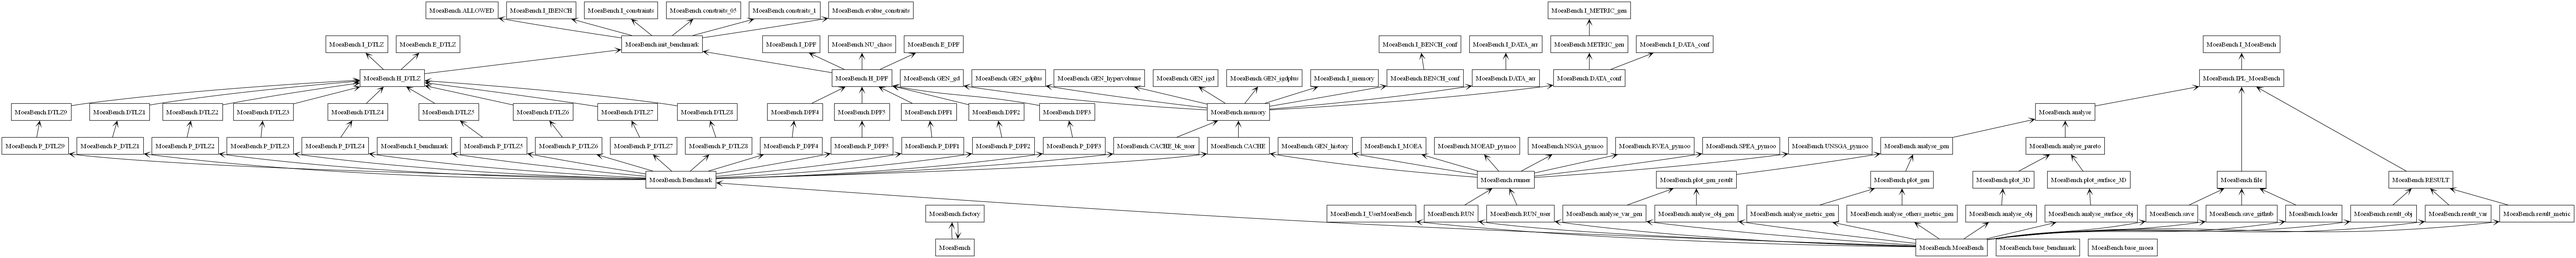
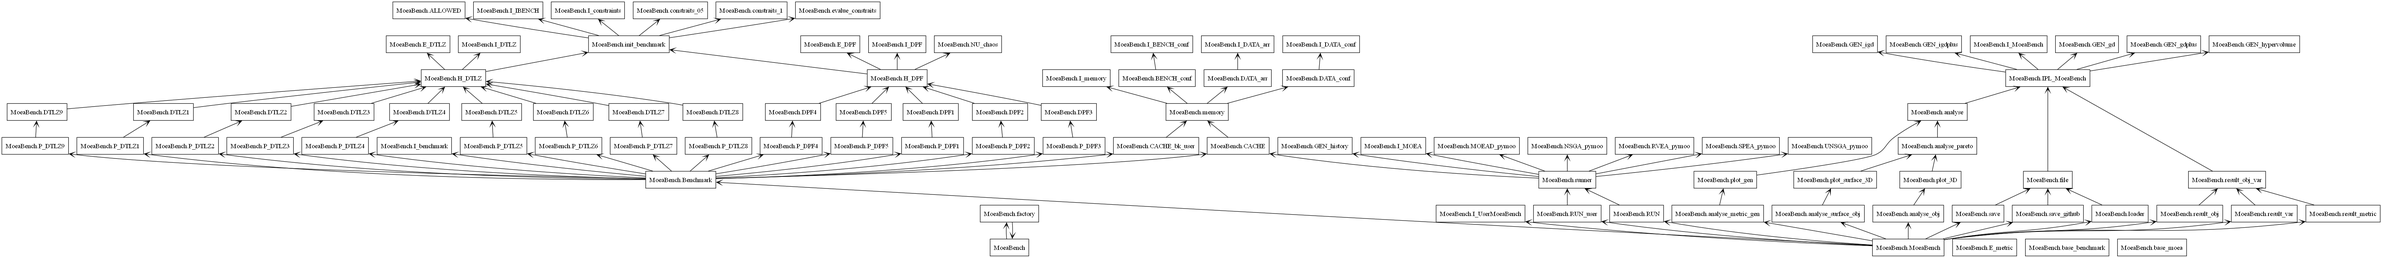
sdf

diff --git a/MoeaBench/result_metric.py b/MoeaBench/result_metric.py
@@ -1,8 +1,30 @@
-from .RESULT import RESULT
+from .result_obj_var import result_obj_var
 import numpy as np
 
 
-class result_metric(RESULT):
+class result_metric(result_obj_var):
+
+    def DATA(self,result,generation, objective):
+        gen_f_test = [b[0].get_F_GEN() for b in result.get_elements()]
+        gen_f_max = max([len(gen)  for gen in gen_f_test])
+        generations = [0,gen_f_max] if isinstance(generation, (list)) and len(generation) == 0 else generation
+        result_metric.allowed_gen(generations)
+        result_metric.allowed_gen_max(gen_f_max,generations[1])
+        objectives = [1,2,3] if isinstance(objective, (list)) and  len(objective) == 0 else objective  
+        result_metric.allowed_obj(objectives)
+             
+        gen_f_valid = [b[0].get_F_GEN()[generations[0]:generations[1]] for b in result.get_elements()]
+        slicing = [[i-1,i]  for i in objectives]
+        F_gen = []
+        for i in range(len(gen_f_valid)):
+            vet_aux = []
+            for z in range(len(gen_f_valid[i])):
+                vet_aux.append(result_metric.slicing_arr(slicing,gen_f_valid[i][z]))
+            F_gen.append(vet_aux)           
+        F = [b[0].get_arr_DATA() for b in result.get_elements()]
+        F_slice = [np.hstack( [b[:,i:j]  for i,j in slicing]) for b in F ]        
+        return F_gen,F_slice 
+    
 
     def IPL_hypervolume(self, result, generation, objective):
         F_GEN, F =  self.DATA(result,generation, objective)

diff --git a/MoeaBench/result_obj_var.py b/MoeaBench/result_obj_var.py
@@ -1,7 +1,7 @@
-from .RESULT import RESULT
-import numpy as np
+from .IPL_MoeaBench import IPL_MoeaBench 
 
-class result_obj_var(RESULT):
+
+class result_obj_var(IPL_MoeaBench ):
 
     def F(self,result, generations = None):
         return [b[0].get_F_GEN() for b in result.get_elements()] if generations is None else [b[0].get_F_GEN()[generations[0]:generations[1]] for b in result.get_elements()]
@@ -19,14 +19,14 @@ class result_obj_var(RESULT):
         gen_f_test = self.dict_data()[default](result)
         gen_f_max = max([len(gen)  for gen in gen_f_test])
         generations = [0,gen_f_max] if isinstance(generation, (list)) and len(generation) == 0 else generation
-        RESULT.allowed_gen(generations)
-        RESULT.allowed_gen_max(gen_f_max,generations[1])        
+        result_obj_var.allowed_gen(generations)
+        result_obj_var.allowed_gen_max(gen_f_max,generations[1])        
         gen_f_valid = self.dict_data()[default](result,generations)
         slicing = [[objective-1,objective]]
         F_gen = []
         for i in range(len(gen_f_valid)):
             vet_aux = []
             for z in range(len(gen_f_valid[i])):
-                vet_aux.append(RESULT.slicing_arr(slicing,gen_f_valid[i][z]))
+                vet_aux.append(result_obj_var.slicing_arr(slicing,gen_f_valid[i][z]))
             F_gen.append(vet_aux)                   
         return F_gen 
